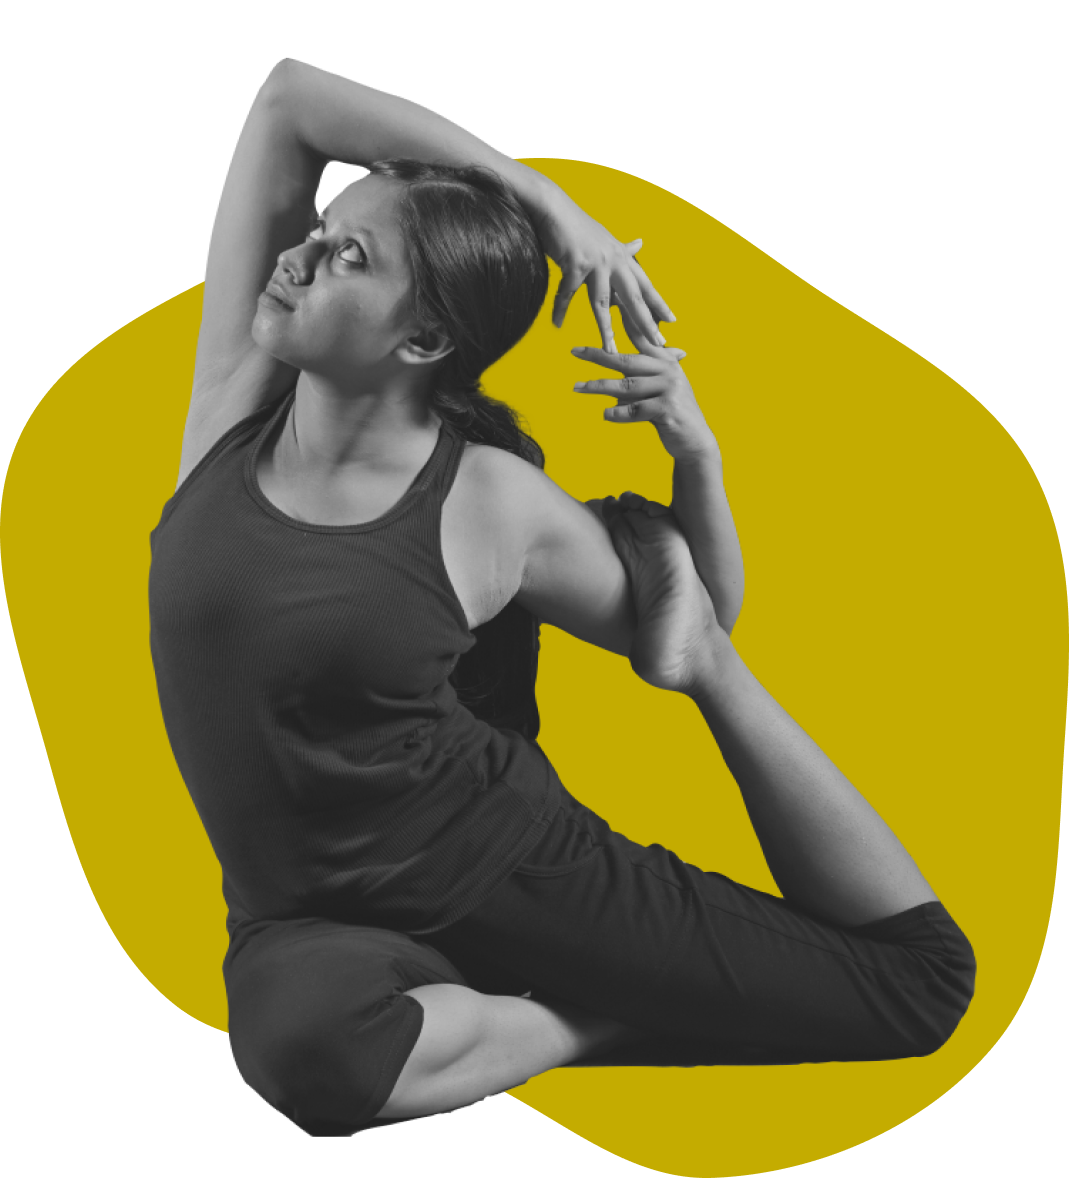
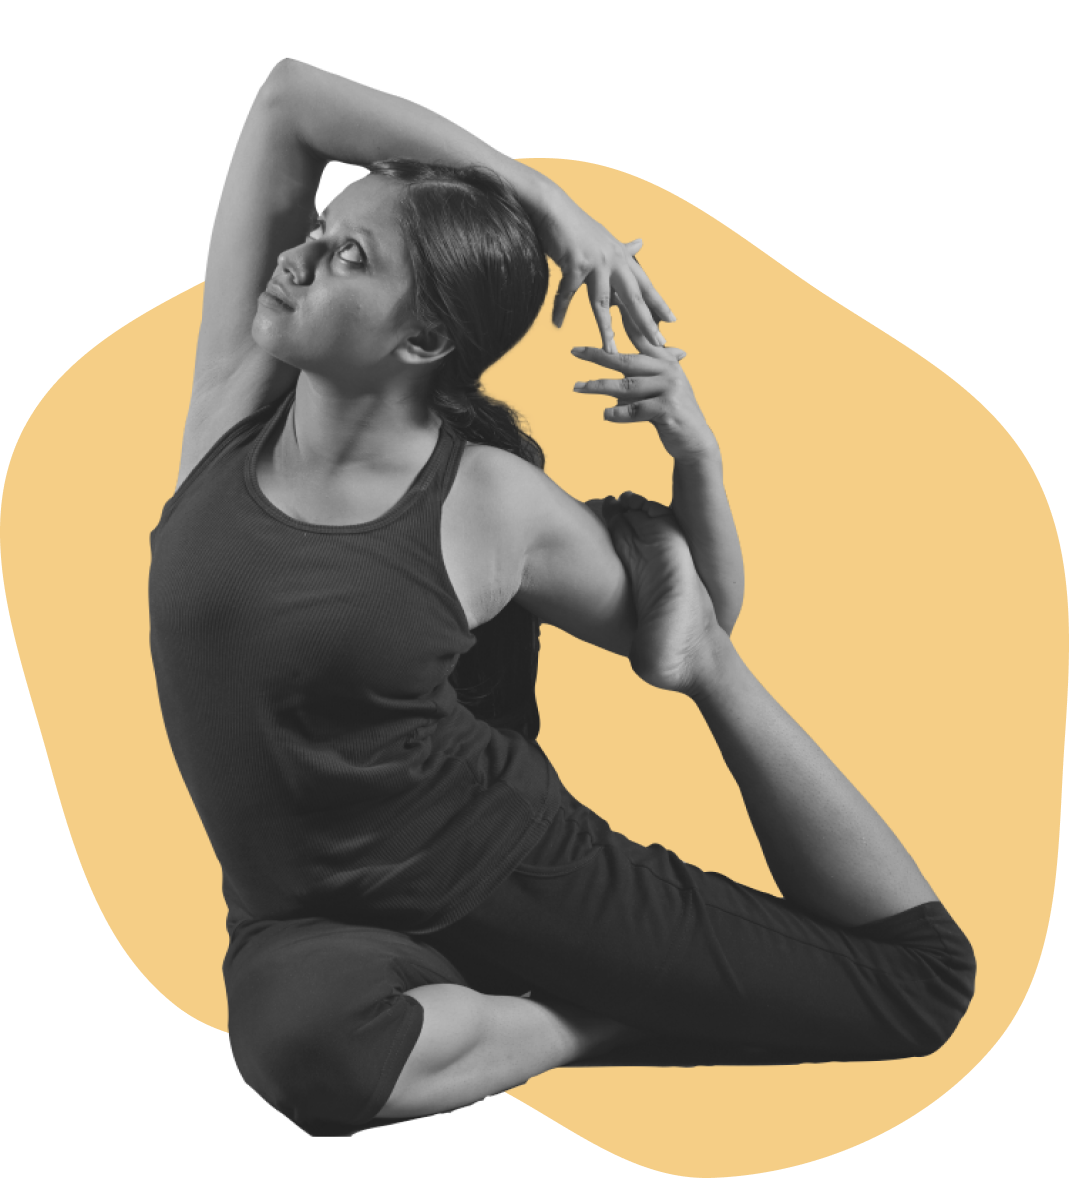
style: caramel color update

Changed region(s): [[0.4322, 0.1222, 1.0, 1.0], [0.0, 0.2445, 0.2161, 0.8862], [0.4939, 0.5195, 0.7409, 0.764]]

diff --git a/src/sections/Footer/Footer.tsx b/src/sections/Footer/Footer.tsx
@@ -1,4 +1,5 @@
 import NextImage from 'next/image'
+import Link from 'next/link'
 import Wave from 'react-wavify'
 
 import { Container, Logo as AppLogo } from 'components'
@@ -20,7 +21,12 @@ const itemRenderer = (item: Item, key: number, horizontal = false) => (
   <li key={`${item?.text}-${key}`}>
     {item?.Icon && !horizontal && <item.Icon />}
     {item?.Icon && horizontal && (
-      <a href={item?.href} data-has-href={!!item?.href}>
+      <a
+        href={item?.href}
+        data-has-href={!!item?.href}
+        target="_blank"
+        rel="noreferrer"
+      >
         <item.Icon />
       </a>
     )}
@@ -51,15 +57,17 @@ export const Footer: React.FC<IOuterContainer> = ({ bgColor }) => {
       />
       <Container divider {...containerStyles} bgColor={bgColor}>
         <Logo.Box>
-          <Logo.Wrapper>
-            <NextImage
-              src={'/images/blob.png'}
-              layout="fill"
-              objectFit="contain"
-              className="blob-bg"
-            />
-            <AppLogo fill="black" />
-          </Logo.Wrapper>
+          <Link href="/" passHref>
+            <Logo.Wrapper>
+              <NextImage
+                src={'/images/blobs/logo-blob.png'}
+                layout="fill"
+                objectFit="contain"
+                className="blob-bg"
+              />
+              <AppLogo fill="black" />
+            </Logo.Wrapper>
+          </Link>
         </Logo.Box>
         <FooterContent.Wrapper>
           <FooterContent.LeftSection>

diff --git a/src/sections/Footer/styles.ts b/src/sections/Footer/styles.ts
@@ -63,10 +63,17 @@ export const Logo = {
     position: relative;
     ${hw.custom(7, 'rem')}
     ${flexRowCenter}
+    filter: drop-shadow(0px 4px 4px rgba(0, 0, 0, 0.25));
+    ${cursor.pointer}
+    transition: 0.5s ease;
     svg {
       position: absolute;
       z-index: 1;
       ${hw.custom(10, 'rem')}
+    }
+
+    :hover {
+      filter: unset;
     }
   `,
 }
@@ -74,7 +81,12 @@ export const Logo = {
 export const FooterContent = {
   Wrapper: styled.div`
     ${flexColCenter}
+    flex-direction: column-reverse;
     padding-top: 3rem;
+
+    ${media.tabletPortrait} {
+      flex-direction: column;
+    }
 
     ${media.tabletLandscape} {
       ${flexRow}
@@ -158,7 +170,7 @@ export const FooterContent = {
       flex-basis: 55%;
       justify-content: flex-start;
       align-content: space-between;
-      height: 52vh;
+      min-height: 52vh;
       order: unset;
       > .vertical-list {
         margin-top: 0;

diff --git a/src/sections/Footer/config.ts b/src/sections/Footer/config.ts
@@ -88,7 +88,7 @@ export const links: Link[] = [
           {
             text: 'Instagram',
             Icon: FaInstagram,
-            href: 'https://www.instagram.com/montro.life/?hl=en',
+            href: 'https://www.instagram.com/montro.life/',
           },
           {
             text: 'LinkedIn',
@@ -98,7 +98,7 @@ export const links: Link[] = [
           {
             text: 'Youtube',
             Icon: FaYoutube,
-            href: 'https://www.youtube.com/channel/UCMj9VWaEvkPH1WPIaT68Q8Q',
+            href: 'https://www.youtube.com/channel/UCKGG07T0uaLUOzRIiQCZYUg',
           },
           {
             text: 'Facebook',

diff --git a/src/sections/Footer/ContactForm/schema.ts b/src/sections/Footer/ContactForm/schema.ts
@@ -9,9 +9,9 @@ import {
 } from 'helpers'
 
 const errorMessages = {
-  name: `Enter your full name. Eg. John Doe`,
+  name: `Enter your full name. Eg. Aindrilla Das`,
   number: 'Enter a valid phone number. Eg. 7003355200',
-  email: 'Enter a valid email. Eg. john.doe@gmail.com',
+  email: 'Enter a valid email. Eg. aindrilla.das@gmail.com',
   message: `Enter your message`,
 }
 

diff --git a/src/sections/Hero/index.tsx b/src/sections/Hero/index.tsx
@@ -30,7 +30,7 @@ export const Hero: React.FC<Props> = (props) => {
         <NextImage
           width="100%"
           height="100%"
-          src={'/images/yoga-pose-hero-3.png'}
+          src={'/images/yoga-pose-hero.png'}
           objectFit="contain"
           layout="responsive"
         />

diff --git a/src/theme/colors.ts b/src/theme/colors.ts
@@ -24,6 +24,6 @@ export const colors: IColors = {
   Mischka: '#D5D4D9',
   Black: '#000000',
   White: '#FFFFFF',
-  Caramel: '#FFD68A',
-  CaramelLite: '#ffd68a99',
+  Caramel: '#F5CE86',
+  CaramelLite: '#F5CE8699',
 }

diff --git a/src/sections/AboutAindrilla/styles.ts b/src/sections/AboutAindrilla/styles.ts
@@ -32,6 +32,7 @@ export const containerStyles = {
 
 export const MediaBox = styled.div`
   flex-basis: 40%;
+  margin-right: 1%;
 `
 
 export const ContentBox = styled.article`
